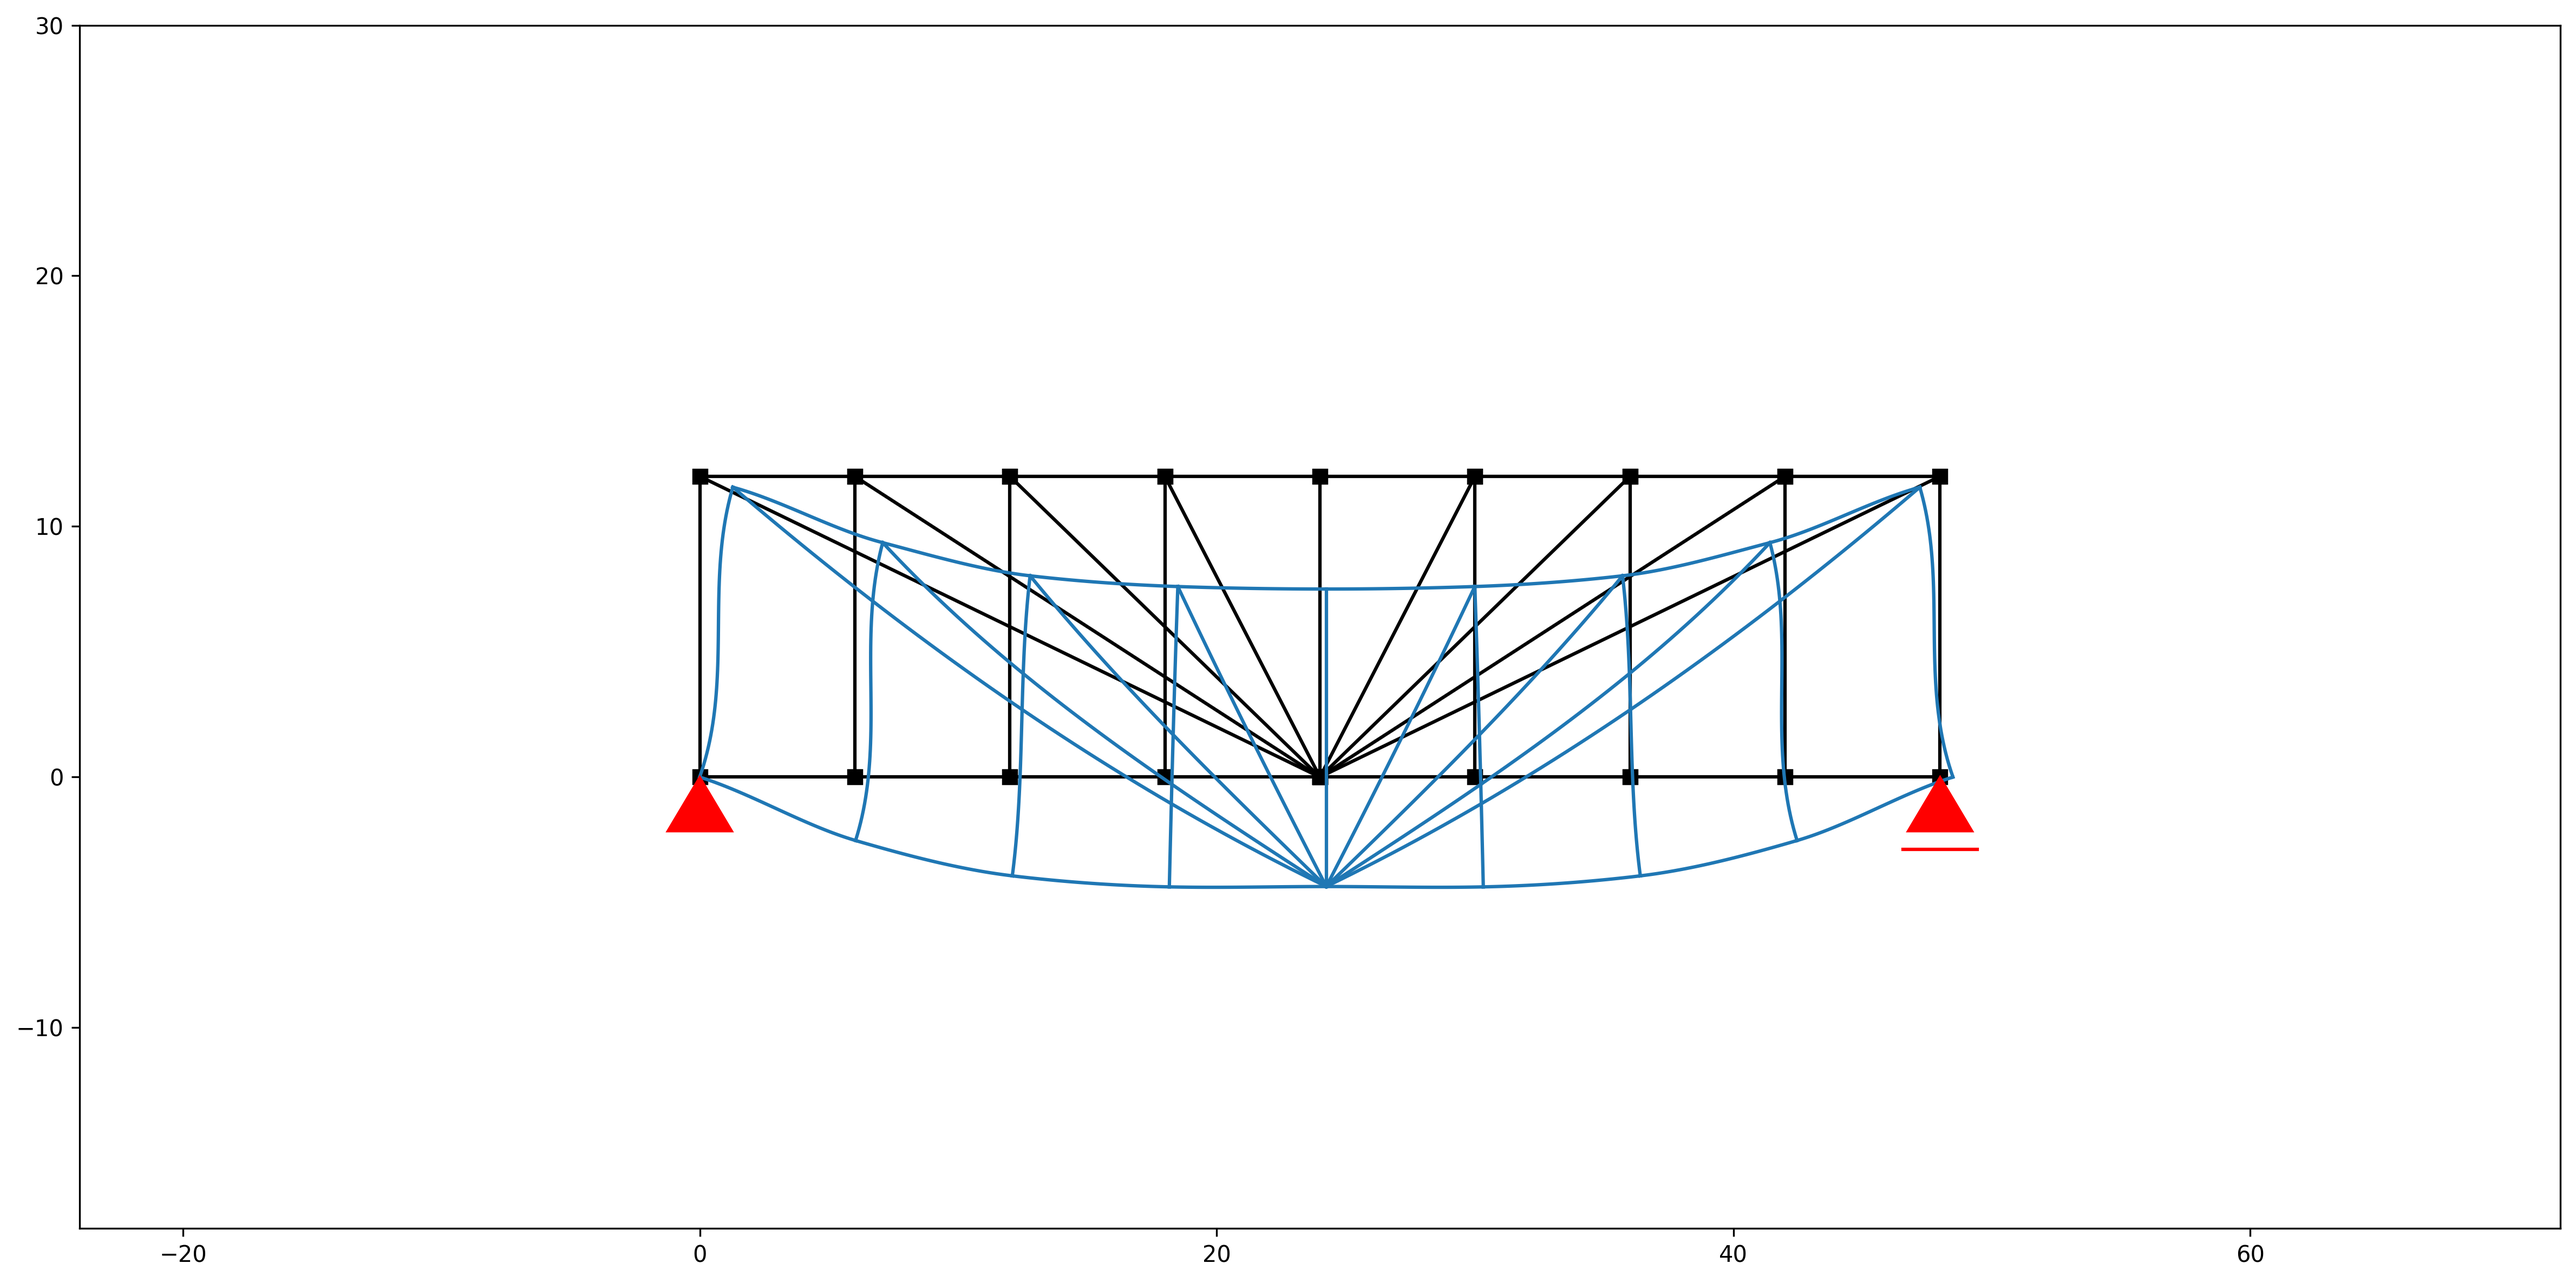
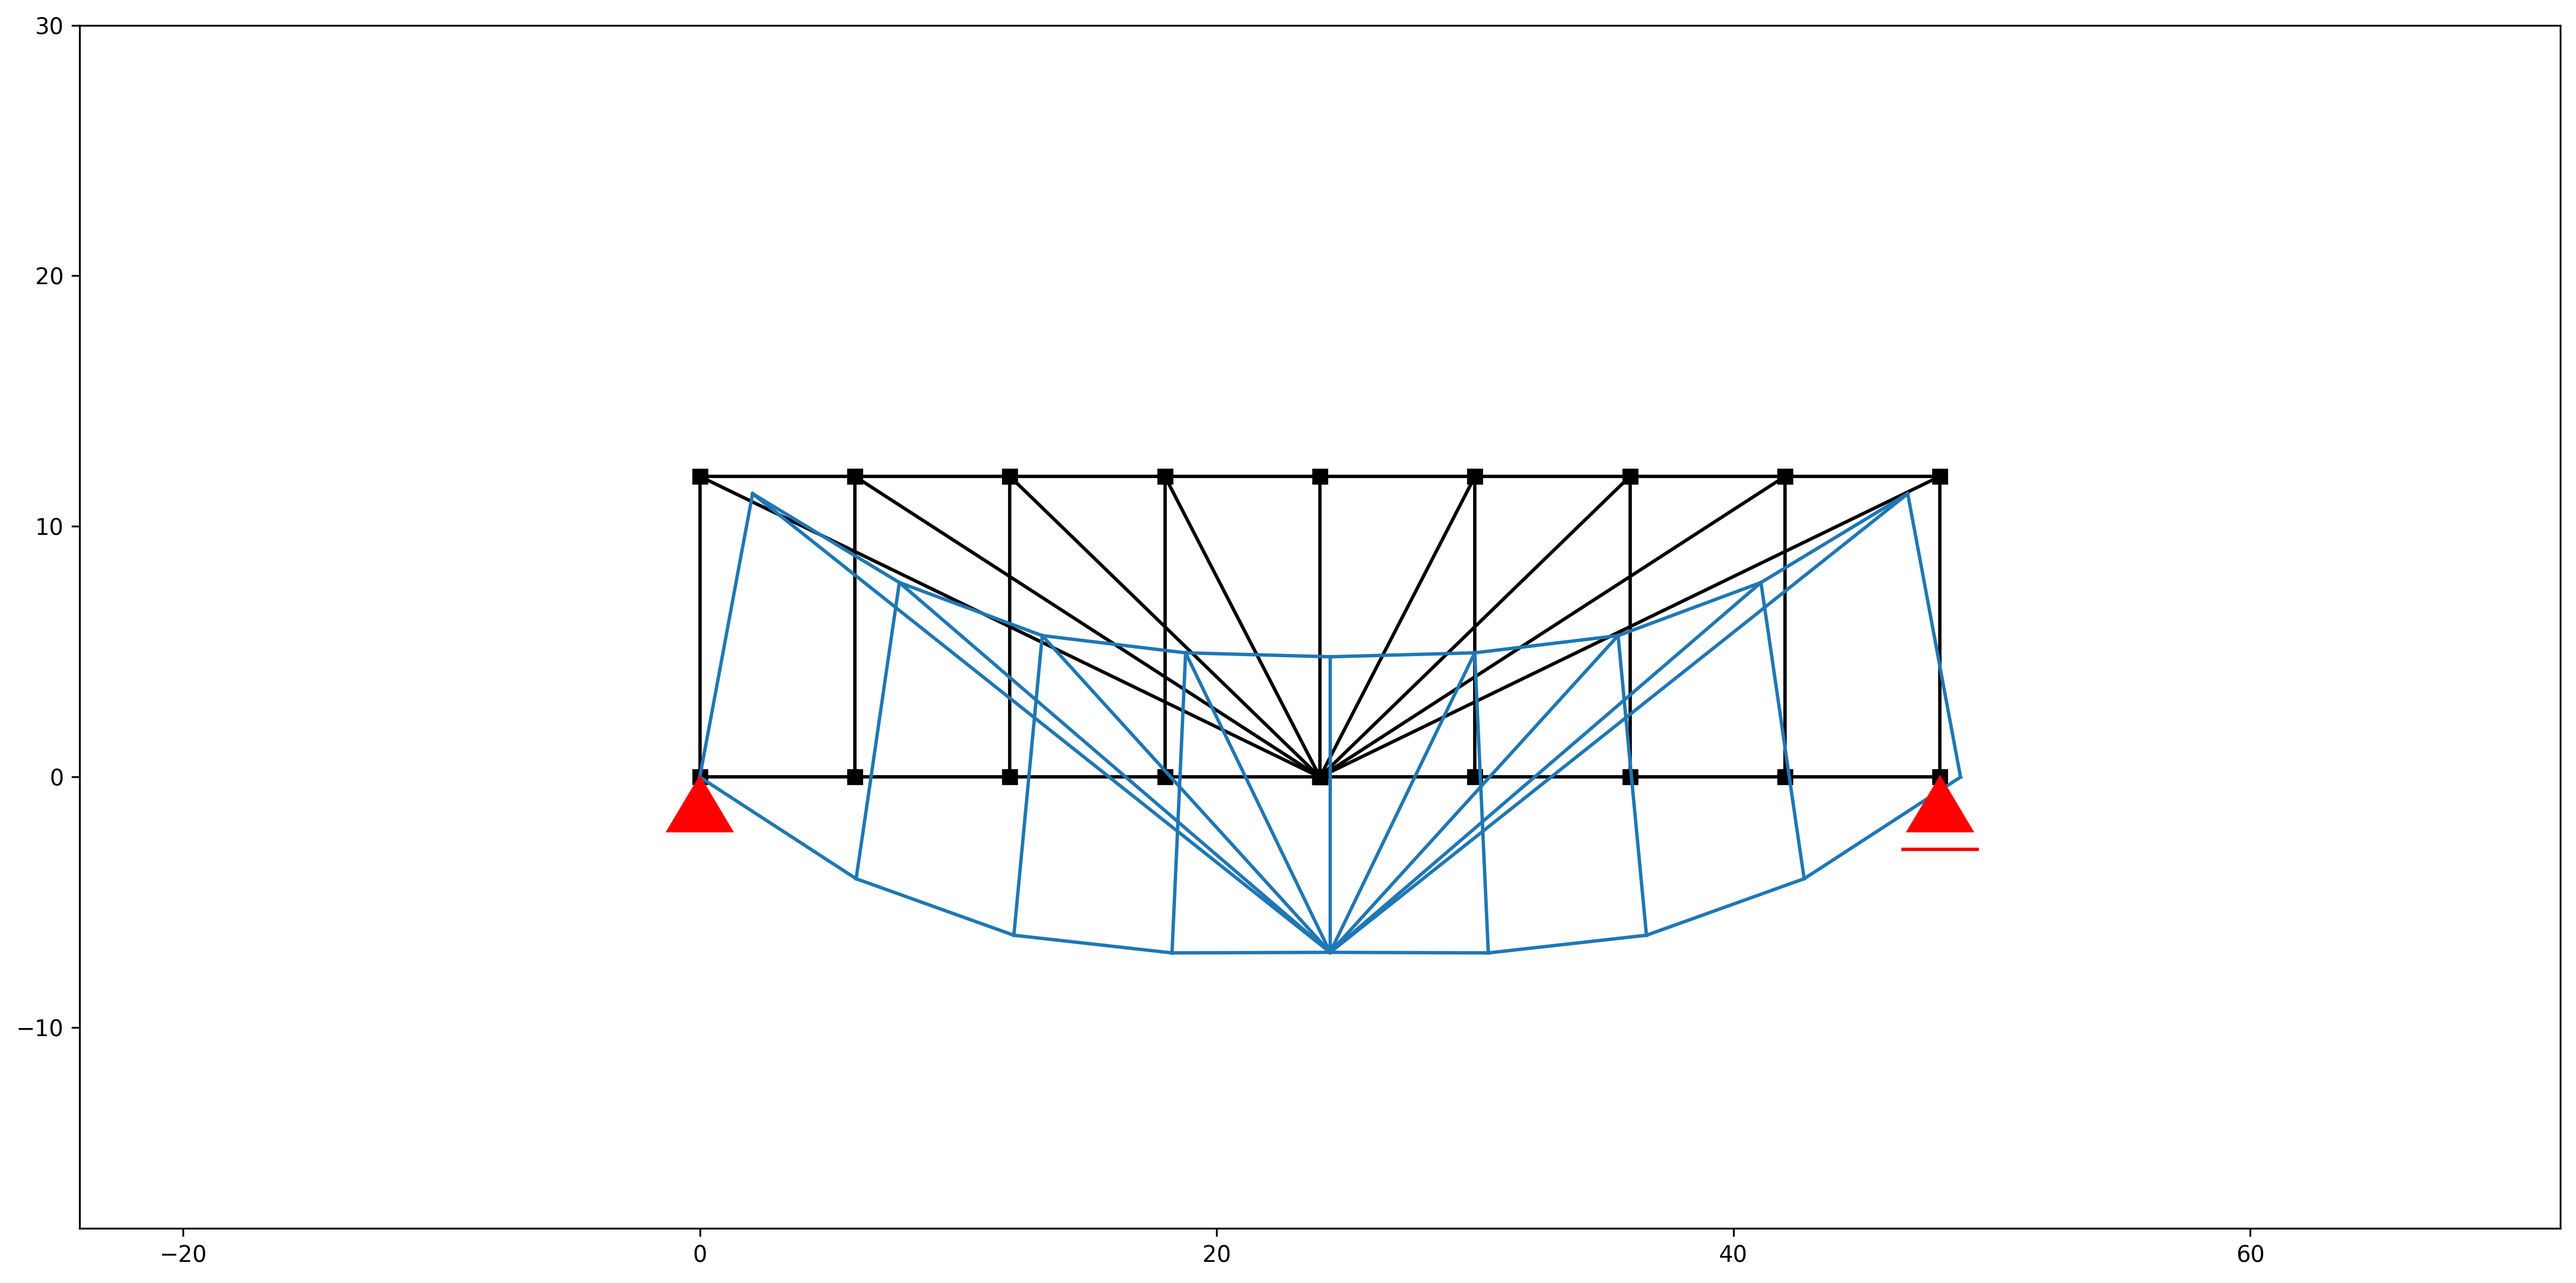
Fix element property assignment and remove unused variables

diff --git a/example_analysis.py b/example_analysis.py
@@ -38,16 +38,7 @@ print("="*60)
 # 반력 계산
 print("\n지점 반력:")
 for node_id, node in ss.node_map.items():
-    # 지점이 있는 노드만 확인 (Fx, Fy가 0이 아닌 경우)
-    has_support = False
-    if hasattr(node, 'hinge') and node.hinge:
-        has_support = True
-        support_type = "힌지"
-    if hasattr(node, 'roll') and node.roll:
-        has_support = True
-        support_type = "롤러"
-    
-    # 또는 좌표로 확인
+    # 좌표로 지점 확인
     if abs(node.vertex.x) < 0.01 and abs(node.vertex.y) < 0.01:
         # 시작점 힌지
         Rx = node.Fx if hasattr(node, 'Fx') else 0

diff --git a/truss_model.py b/truss_model.py
@@ -107,8 +107,8 @@ def create_truss_model():
     
     # 모든 부재에 속성 적용
     for element_id in range(1, ss.id_last_element + 1):
-        ss.EA = EA
-        ss.EI = EI
+        ss.element_map[element_id].EA = EA
+        ss.element_map[element_id].EI = EI
     
     # 모델 정보 출력
     print("=" * 60)
